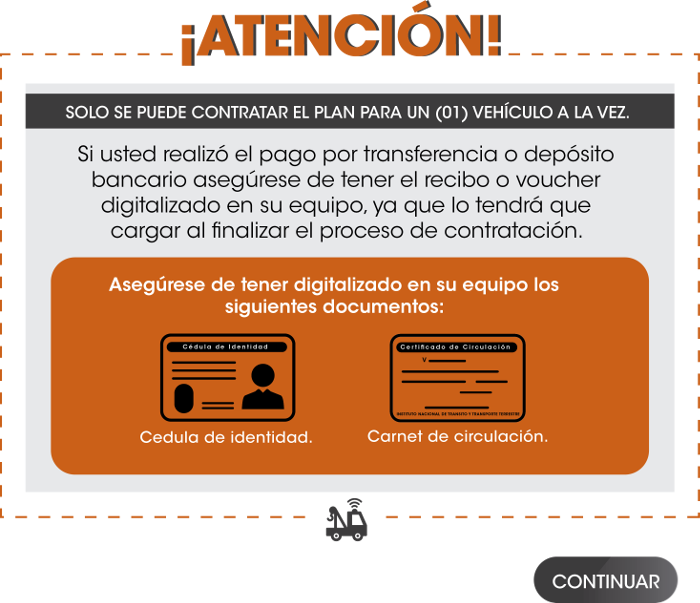
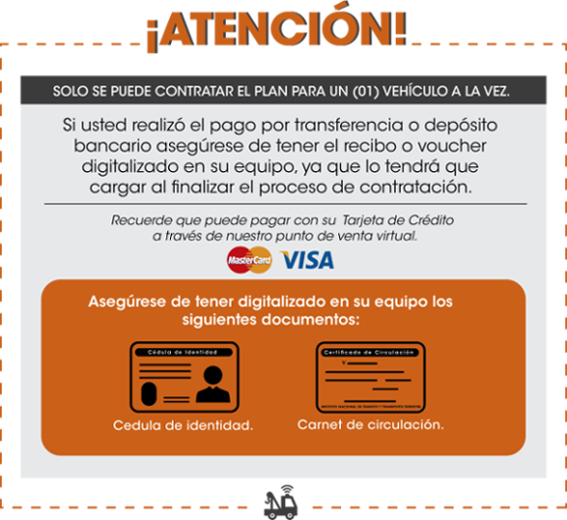
cuadro requisitos

diff --git a/page.php b/page.php
@@ -733,56 +733,12 @@
 			</div>
                 <div class="row">
                         <div class="modal-body">
-                            <!--<div class="col-xs-3 col-xs-offset-4" style=";margin-bottom: -1.9%;z-index: 1;background-color: #E7E8EB !important;">
-                                <img src="web/img/fresh/atencion.png" class="img-responsive">
-                            </div>
-                            <div class="col-xs-12 col-md-10 col-md-offset-1 table-responsive" style="z-index: 0;border-top: dotted 3px #e76115;border-bottom: dotted 3px #e76115;border-left: dotted 3px #e76115;border-right: dotted 3px #e76115; z-index:0;">
-                                <div class="col-xs-12"  style="border: dotted 1px #000;margin-top: 3%;margin-bottom: 3%;background-color: #e7e8eb;padding-top: 2%;">
-                                    
-									<table width="100%">
-										<tr style="background-color: #444142;color:#fff;">
-											<td>
-												<p class="text-center"><strong>SOLO SE PUEDE CONTRATAR EL PLAN PARA UN (01) VEHÍCULO A LA VEZ</strong></p>  
-											</td>
-										</tr>
-										<tr>
-											<td>
-												<p class="text-center" style="font-size: 1.5em;">Si usted realizó el pago por transferencia o depósito<br>
-													bancario asegúrese de tener el recibo o voucher<br>
-													digitalizado en su equipo, ya que lo tendrá que <br>
-													cargar al finalizar el proceso de contratación
-												</p>
-											</td>
-										</tr>
-										<tr>
-											<td>
-												<div style="border-radius: 10px;background-color: #E76115;">
-												<p class="text-left" >
-													&nbsp;&nbsp;&nbsp;<strong style="font-size: 1.6em;color:#fff;">Asegúrese de tener digitalizado en su equipo los siguientes documentos</strong>
-												</p>
-												<ul style="font-size: 1.3em;color:#fff;">
-													<li class="text-left">Cédula de identidad.</li>
-													<li class="text-left">RIF personal.</li>
-													<li class="text-left">Licencia de conducir.</li>
-													<li class="text-left">Carnet de circulación.</li>
-													<li class="text-left">Certificado médico (en caso de adquirir RCV).</li>
-													<li class="text-left">Certificado de origen del vehículo / Título de propiedad (En caso de adquirir RCV).</li>
-												</ul>
-												</div>
-											</td>
-										</tr>
-									</table>
-
-                                </div>
-
-                            </div> -->
-                            <div class="col-sm-10 col-sm-offset-1 col-lg-6 col-lg-offset-3">
-                                <img src="web/img/fresh/cuadro_requisitos.png" class="img-responsive">
+                            <div class="col-sm-8 col-sm-offset-3 text-center">
+                                <img src="web/img/fresh/cuadro_requisitos.png" class="img-responsive text-center">
 
                             </div>
-                            <div class="col-sm-12 col-md-12 col-lg-10 col-lg-offset-1 text-right">
-                                <br>
-                                <a class="btn btn-success" href="https://tugruero.com/pl/planes/index.php">Continuar</a>
+                            <div class="col-sm-6  col-sm-offset-3 text-right">
+                                <a style="" class="btn btn-success" href="https://tugruero.com/pl/planes/index.php">Continuar</a>
                             </div>				
                         </div>
                 </div>

diff --git a/pl/planes/form_view.php b/pl/planes/form_view.php
@@ -64,7 +64,7 @@
     <input type="hidden" id="IdV" name="IdV" value="<?php if(isset($values['IdV']))echo $values['IdV']?>">
 
     <div class="form-group col-sm-2 col-sm-offset-10 text-right PlanPrecio alert alert-success">
-      <p><b>Total a pagar:</b> <?php if(isset($values['precio']) and $values['precio']!='') echo "Bs. ".number_format($values['precio'],2,",",".")."."; else echo " Bs. 0,00"?></p>
+      <p><b>Total a pagar con IVA:</b> <?php if(isset($values['precio']) and $values['precio']!='') echo "Bs. ".number_format($values['precio'],2,",",".")."."; else echo " Bs. 0,00"?></p>
   </div>
 	<div class="form-group col-sm-12">
 		<hr class="hr_subtitulo_planes">
@@ -191,7 +191,7 @@
         <?php endif;?>    
   </div>
   <div class="form-group col-sm-6">
-    <label for="Telefono" class="control-label">Teléfono de habitación</label> <label class="text-danger"> * </label>&nbsp;&nbsp;&nbsp;&nbsp;<small> (02121234567)</small>
+    <label for="Telefono" class="control-label">Teléfono de habitación</label> <label class="text-danger"></label>&nbsp;&nbsp;&nbsp;<small> (02121234567)</small>
     <div class="">
         <input type="text" name="Telefono" class="form-control" autocomplete="off" id="Telefono" maxlength="11" value="<?php if(isset($values['Telefono']) and $values['Telefono']!='') echo $values['Telefono'];?>" placeholder="Ejemplo: 02121234567">
     </div>
@@ -509,7 +509,7 @@
 	</div>
   <div class="form-group col-sm-2 col-sm-offset-10 text-right PlanPrecio alert alert-success">
       
-	  <p><b>Total a pagar:</b> <?php if(isset($values['precio']) and $values['precio']!='') echo "Bs. ".number_format($values['precio'],2,",",".")."."; else echo "Bs. 0,00 "?></p>
+	  <p><b>Total a pagar con IVA:</b> <?php if(isset($values['precio']) and $values['precio']!='') echo "Bs. ".number_format($values['precio'],2,",",".")."."; else echo "Bs. 0,00 "?></p>
   </div>
 
 	<div class="col-sm-5">
@@ -708,7 +708,7 @@ $(document).ready(function(){
         url: '<?php echo full_url?>/pl/planes/index.php',
 	data: { action: "precio_plan",id_plan: $('#idPlan').val(), RCV: $('.RCV:checked').val(), Puestos: $('#Puestos').val()},
 	success: function(data){
-            $('.PlanPrecio').html("<p><b>Total a pagar:</b> Bs. " + data.precio + ".</p>")
+            $('.PlanPrecio').html("<p><b>Total a pagar con IVA:</b> Bs. " + data.precio + ".</p>")
             $('#precio').val(data.precio_sin_formato);
 	},
           dataType: 'JSON'

diff --git a/pl/jleal/form_view.php b/pl/jleal/form_view.php
@@ -72,7 +72,7 @@
     <input type="hidden" id="IdV" name="IdV" value="2">
 
     <div class="form-group col-sm-2 col-sm-offset-10 text-right PlanPrecio alert alert-info">
-      <p><b>Total a pagar:</b> <?php if(isset($values['precio']) and $values['precio']!='') echo "Bs. ".number_format($values['precio'],2,",",".")."."; else echo " Bs. 0,00"?></p>
+      <p><b>Total a pagar con IVA:</b> <?php if(isset($values['precio']) and $values['precio']!='') echo "Bs. ".number_format($values['precio'],2,",",".")."."; else echo " Bs. 0,00"?></p>
   </div>
 	<div class="form-group col-sm-12 well well-sm text-info">
 		
@@ -200,7 +200,7 @@
         <?php endif;?>    
   </div>
   <div class="form-group col-sm-6">
-    <label for="Telefono" class="control-label">Teléfono de habitación</label> <label class="text-danger"> * </label>&nbsp;&nbsp;&nbsp;&nbsp;<small> (02121234567)</small>
+    <label for="Telefono" class="control-label">Teléfono de habitación</label> <label class="text-danger">  </label>&nbsp;&nbsp;&nbsp;<small> (02121234567)</small>
     <div class="">
         <input type="text" name="Telefono" class="form-control" autocomplete="off" id="Telefono" maxlength="11" value="<?php if(isset($values['Telefono']) and $values['Telefono']!='') echo $values['Telefono'];?>" placeholder="Ejemplo: 02121234567">
     </div>
@@ -477,7 +477,7 @@
 	</div>
   <div class="form-group col-sm-2 col-sm-offset-10 text-right PlanPrecio alert alert-info">
       
-	  <p><b>Total a pagar:</b> <?php if(isset($values['precio']) and $values['precio']!='') echo "Bs. ".number_format($values['precio'],2,",",".")."."; else echo "Bs. 0,00 "?></p>
+	  <p><b>Total a pagar con IVA:</b> <?php if(isset($values['precio']) and $values['precio']!='') echo "Bs. ".number_format($values['precio'],2,",",".")."."; else echo "Bs. 0,00 "?></p>
   </div>
 
 	<div class="col-sm-5">
@@ -677,7 +677,7 @@ $(document).ready(function(){
         url: '<?php echo full_url?>/pl/planes/index.php',
 	data: { action: "precio_plan",id_plan: $('#idPlan').val(), RCV: $('.RCV:checked').val(), Puestos: $('#Puestos').val()},
 	success: function(data){
-            $('.PlanPrecio').html("<p><b>Total a pagar:</b> Bs. " + data.precio + ".</p>")
+            $('.PlanPrecio').html("<p><b>Total a pagar con IVA:</b> Bs. " + data.precio + ".</p>")
             $('#precio').val(data.precio_sin_formato);
 	},
           dataType: 'JSON'

diff --git a/adm/solicitud_plan/form_view.php b/adm/solicitud_plan/form_view.php
@@ -159,7 +159,7 @@ $isAprobada = false;
         <?php endif;?>
   </div>
   <div class="form-group col-sm-3">
-    <label for="Telefono" class="control-label">Teléfono de habitación</label> <label class="text-danger"> * </label>
+    <label for="Telefono" class="control-label">Teléfono de habitación</label> <label class="text-danger"></label>
     <div class="">
         <input <?php echo $disabled;?> type="text" name="Telefono" class="form-control" autocomplete="off" id="Telefono" maxlength="10" value="<?php if(isset($values['Telefono']) and $values['Telefono']!='') echo $values['Telefono'];?>" placeholder="Ejemplo: 2121234567">
     </div>
@@ -426,7 +426,7 @@ $isAprobada = false;
   <div class="form-group col-sm-2 Puestos">
     <label for="Puestos" class="control-label">Cantidad de puestos</label> <label class="text-danger"> * </label>
     <div class="">
-        <input disabled type="number" name="Puestos" class="form-control" id="Puestos" autocomplete="off" maxlength="1" value="<?php if(isset($values['Puestos']) and $values['Puestos']!='') echo $values['Puestos']; else echo "5";?>" min="5" max="7">
+        <input <?php echo $disabled;?> type="number" name="Puestos" class="form-control" id="Puestos" autocomplete="off" maxlength="1" value="<?php if(isset($values['Puestos']) and $values['Puestos']!='') echo $values['Puestos']; else echo "5";?>" min="5" max="7">
     </div>
         <?php if(isset($errors['Puestos']) and $errors['Puestos']!=''):?>
         <div id="" class="alert alert-danger"><?php echo $errors['Puestos'];?></div>

diff --git a/pl/jleal/validator.php b/pl/jleal/validator.php
@@ -87,7 +87,7 @@
 			"maxlength" => 11,
 			"type" => "number",
 			"label" => "Teléfono de habitación",
-			"required" => true
+			"required" => false
 		);
 		$validator_values['Celular'] = array(
 			
@@ -180,7 +180,7 @@
                 if (!preg_match("/^\\d{1,2}\\/\\d{1,2}\\/\\d{4}$/", $values['FechaNacimiento'])) {
                      $errors['FechaNacimiento'] = "Verifique el formato de la fecha de nacimiento (01/01/1980)";
                 }
-                if (!preg_match("/^[0][2][1-9][1-9][0-9]{7}$/", $values['Telefono'], $matches))      
+                if ( isset($values['Telefono']) and $values['Telefono']!='' and !preg_match("/^[0][2][1-9][1-9][0-9]{7}$/", $values['Telefono'], $matches))      
                 {
                     $errors['Telefono'] = "Formato o número incorrecto (Ejemplo: 02121234567))";
                 }

diff --git a/pl/planes/validator.php b/pl/planes/validator.php
@@ -87,7 +87,7 @@
 			"maxlength" => 11,
 			"type" => "number",
 			"label" => "Teléfono de habitación",
-			"required" => true
+			"required" => false
 		);
 		$validator_values['Celular'] = array(
 			
@@ -180,7 +180,7 @@
                 if (!preg_match("/^\\d{1,2}\\/\\d{1,2}\\/\\d{4}$/", $values['FechaNacimiento'])) {
                      $errors['FechaNacimiento'] = "Verifique el formato de la fecha de nacimiento (01/01/1980)";
                 }
-                if (!preg_match("/^[0][2][1-9][1-9][0-9]{7}$/", $values['Telefono'], $matches))      
+                if ( isset($values['Telefono']) and $values['Telefono']!='' and !preg_match("/^[0][2][1-9][1-9][0-9]{7}$/", $values['Telefono'], $matches))      
                 {
                     $errors['Telefono'] = "Formato o número incorrecto (Ejemplo: 02121234567))";
                 }

diff --git a/adm/solicitud_plan/validator.php b/adm/solicitud_plan/validator.php
@@ -79,7 +79,7 @@
 			"maxlength" => 11,
 			"type" => "number",
 			"label" => "Teléfono de habitación",
-			"required" => true
+			"required" => false
 		);
 		$validator_values['Celular'] = array(
 			
@@ -177,7 +177,7 @@
                 {
                     $errors['Rif'] = "Verifique el formato del RIF (V-12345670)";
                 }
-                if (!preg_match("/^[0][2][1-9][1-9][0-9]{7}$/", $values['Telefono'], $matches))      
+                if ( isset($values['Telefono']) and $values['Telefono']!='' and !preg_match("/^[0][2][1-9][1-9][0-9]{7}$/", $values['Telefono'], $matches))      
                 {
                     $errors['Telefono'] = "Formato o número incorrecto (Ejemplo: 02121234567))";
                 }
